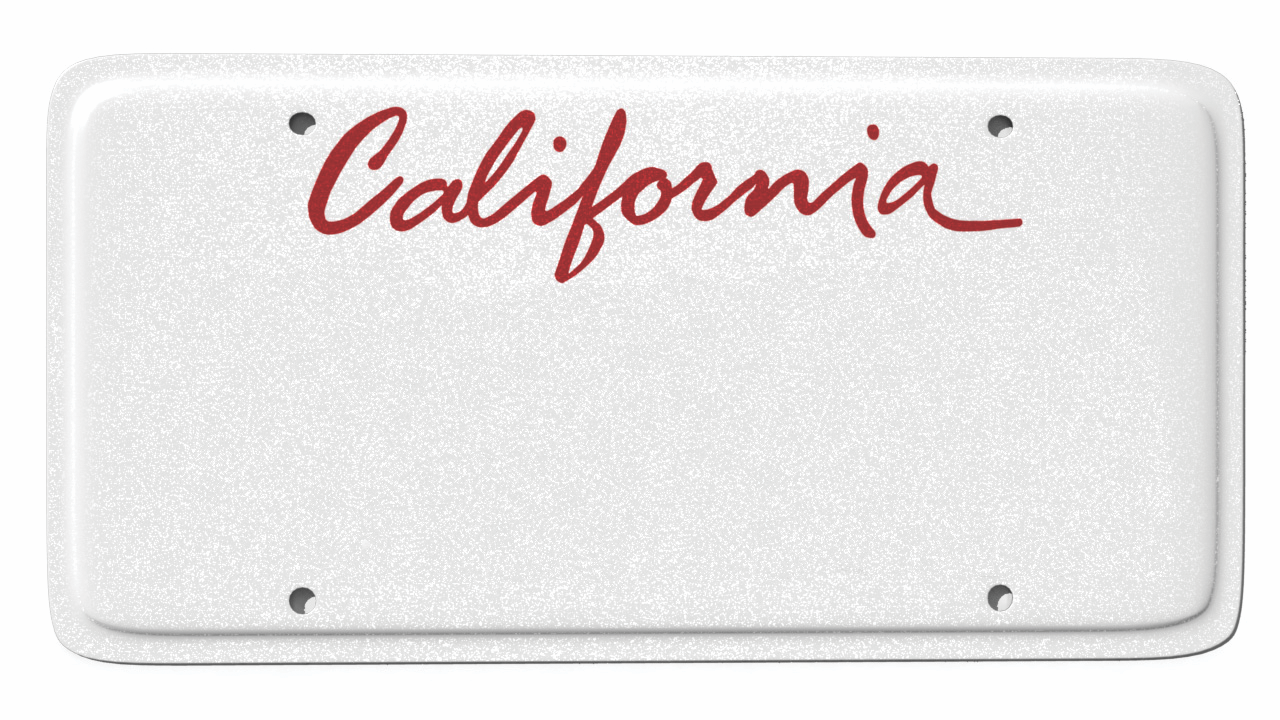
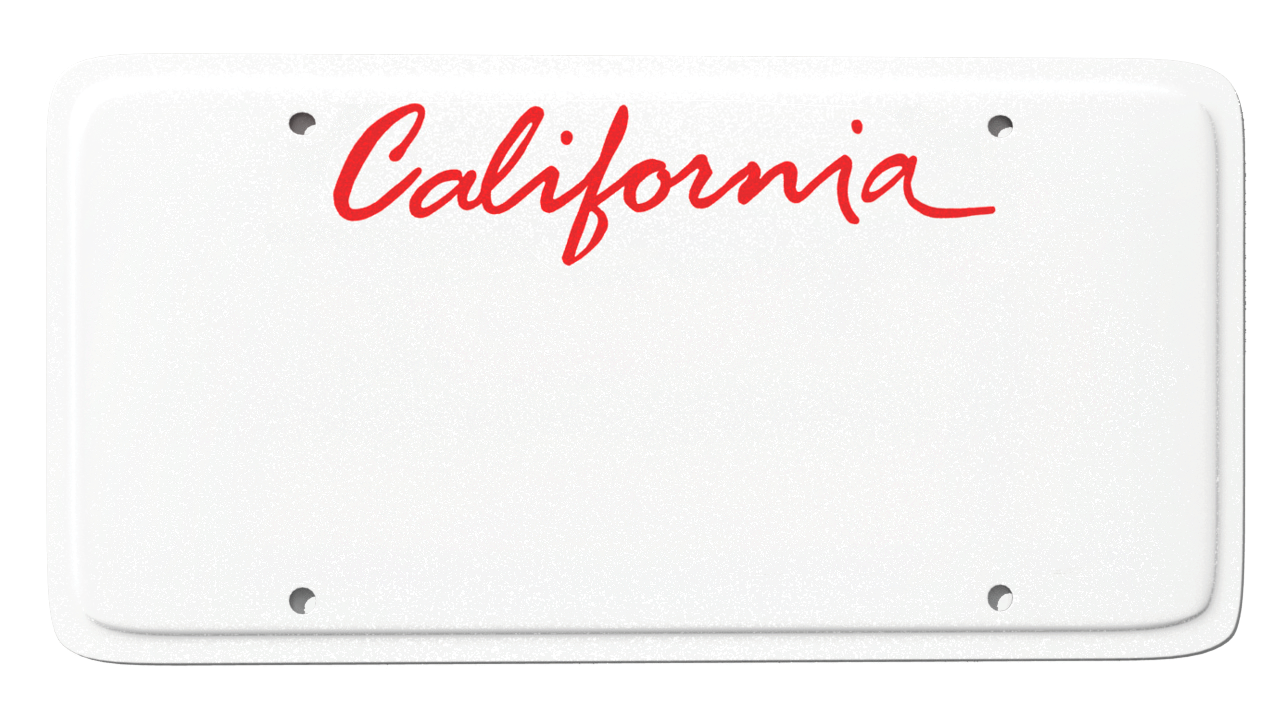
Make the plate design closer resemble old one

Changed region(s): [[0.2188, 0.1222, 0.8125, 0.3972], [0.3125, 0.8556, 0.6875, 0.8861], [0.0938, 0.8556, 0.1562, 0.8861]]

diff --git a/twitter.js b/twitter.js
@@ -2,9 +2,6 @@ const fs = require("fs")
 const twit = require("twit")
 const util = require("node:util")
 
-const checkmark = "\u2705" // U+2705 (✅)
-const cross = "\u274C" // U+274C (❌)
-
 const bio = "Real personalized license plate applications that the California DMV received from 2015-2016. Posts hourly. Not the actual DMV (see @CA_DMV). (%s% complete)"
 const template = `Customer: %s\nDMV: %s\n\nVerdict: %s`
 const alt = "Personalized California license plate with text \"%s\"."
@@ -18,7 +15,7 @@ function format(plate) {
         return false
     }
 
-    let tweet = util.format(template, plate.customer, plate.dmv, plate.status ? `ACCEPTED ${checkmark}`: `DENIED ${cross}`)
+    let tweet = util.format(template, plate.customer, plate.dmv, plate.status ? `ACCEPTED`: `DENIED`)
     let trimmed = false
 
     if (tweet.length > 280) {
@@ -30,7 +27,7 @@ function format(plate) {
         }
 
         trimmed = plate.customer.slice(0, -remove)
-        tweet = util.format(template, plate.customer + "...", plate.dmv, plate.status ? `ACCEPTED ${checkmark}`: `DENIED ${cross}`)
+        tweet = util.format(template, plate.customer + "...", plate.dmv, plate.status ? `ACCEPTED`: `DENIED`)
     }
 
     return {

diff --git a/dmv.js b/dmv.js
@@ -15,14 +15,14 @@ function draw(text, file) {
         let plate = gm(1280, 720, "#FFFFFFFF")
 
         // Draw license plate text
-        plate.fill("#2F3C59")
-        plate.font(path.join(__dirname, "resources", "fontface.ttf"), 230)
-        plate.drawText(0, 90, text, "center").raise(10, 181)
+        plate.fill("#1F2A64")
+        plate.font(path.join(__dirname, "resources", "fontface.ttf"), 240)
+        plate.drawText(0, 80, text, "center").raise(10, 190)
 
         // Draw watermark
         plate.fill("#00000032")
-        plate.font("Calibri", 30)
-        plate.drawText(20, 20, `@${twitter.getHandle()}`, "southwest")
+        plate.font("Calibri", 25)
+        plate.drawText(25, 25, `@${twitter.getHandle()}`, "southeast")
 
         // Overlay this image with the license plate
         // This method is super stupid :-)
